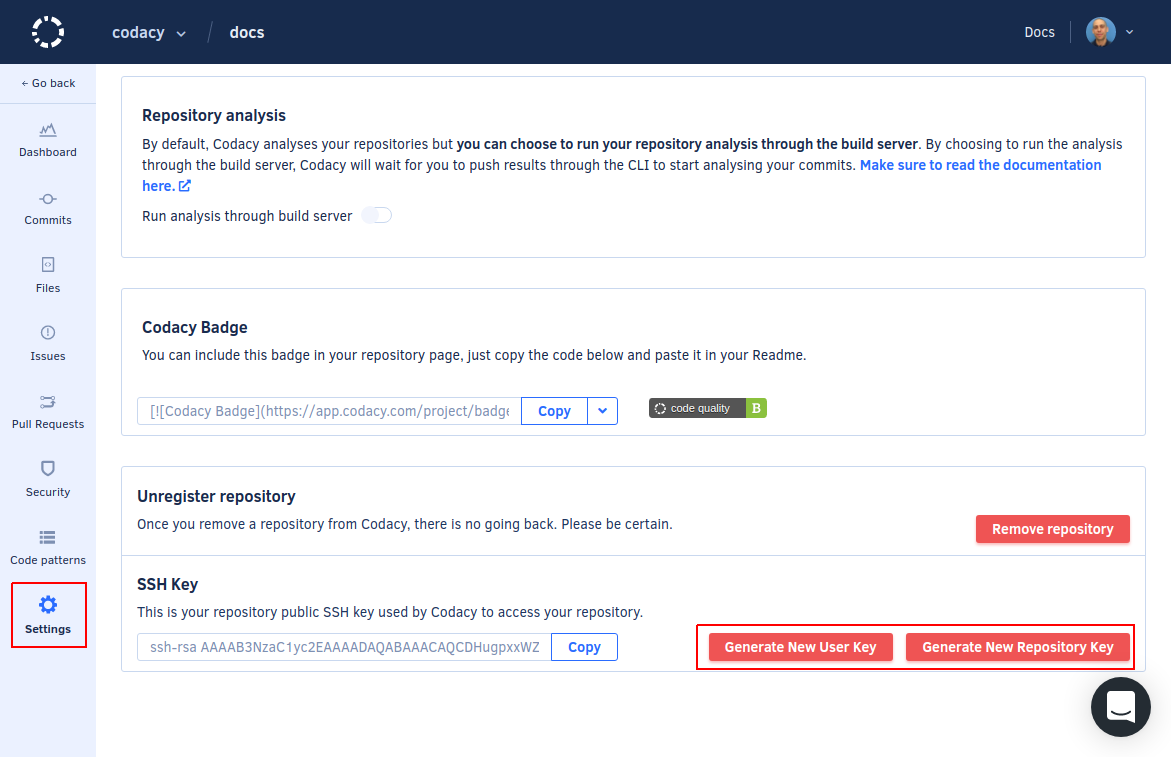
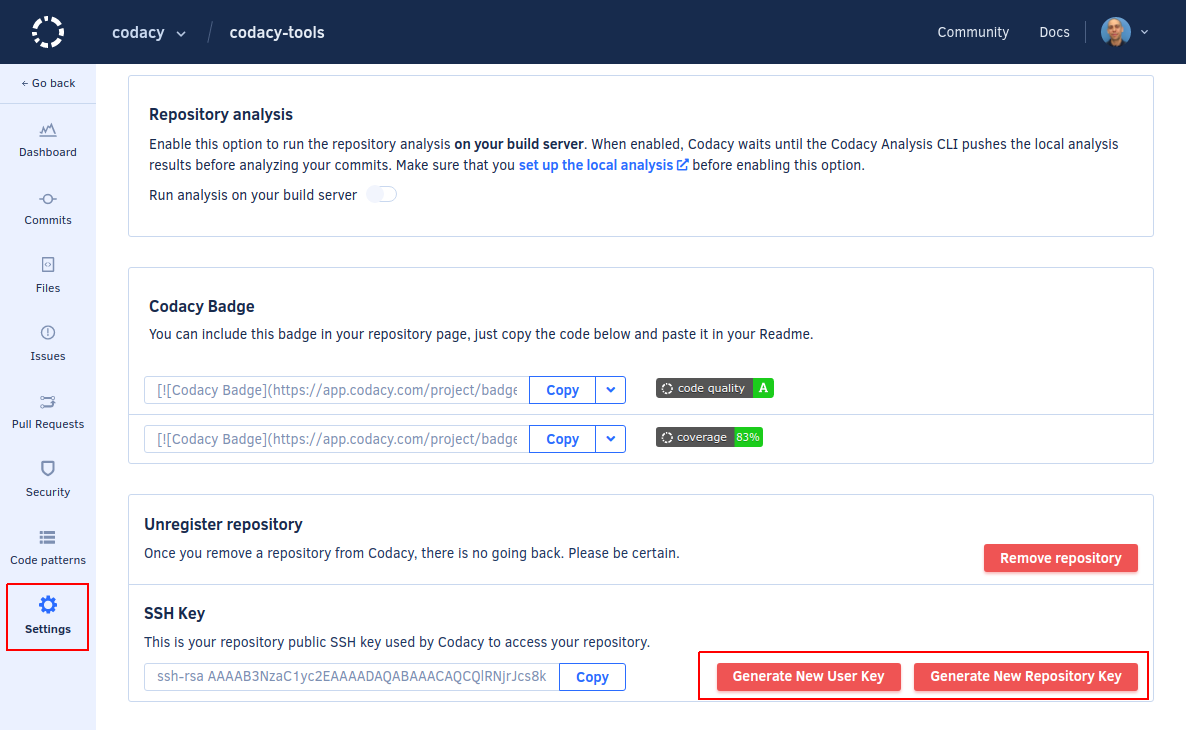
clean: Update "Run analysis on your build server" DOCS-211 (#862)
* clean: Update UI copy for "Run analysis on your build server"

* clean: Update screenshot with new UI copy

* clean: Update name of setting Run analysis on your build server

* clean: Update repository settings screenshots

diff --git a/docs/faq/repositories/how-do-i-reanalyze-my-repository.md b/docs/faq/repositories/how-do-i-reanalyze-my-repository.md
@@ -3,7 +3,7 @@
 To reflect the most recent configurations for your repository on the Codacy analysis results without waiting for a new commit to trigger the analysis, reanalyze the last commit in your branch or pull request.
 
 !!! important
-    If you have the setting **Run analysis through build server** enabled in your repository **Settings** page so that you can run client-side tools you can't trigger a new analysis from the Codacy UI.
+    If you have the setting **Run analysis on your build server** enabled in your repository **Settings** page so that you can run client-side tools you can't trigger a new analysis from the Codacy UI.
 
     Instead, you must manually run the client-side tools or wait for them to report the results for a new commit.
 

diff --git a/docs/assets/includes/client-side-tool-instructions.md b/docs/assets/includes/client-side-tool-instructions.md
@@ -1,8 +1,8 @@
-1.  Enable **Run analysis through build server** in your repository **Settings**, tab **General**, **Repository analysis**.
+1.  Enable **Run analysis on your build server** in your repository **Settings**, tab **General**, **Repository analysis**.
 
     This setting enables Codacy to wait for the results of the local analysis before resuming the analysis of your commits.
 
-    ![Run analysis through build server](./images/run-analysis-through-build-server.png)
+    ![Run analysis on your build server](./images/run-analysis-through-build-server.png)
 
 1.  Set up an API token to authenticate on Codacy:
 
